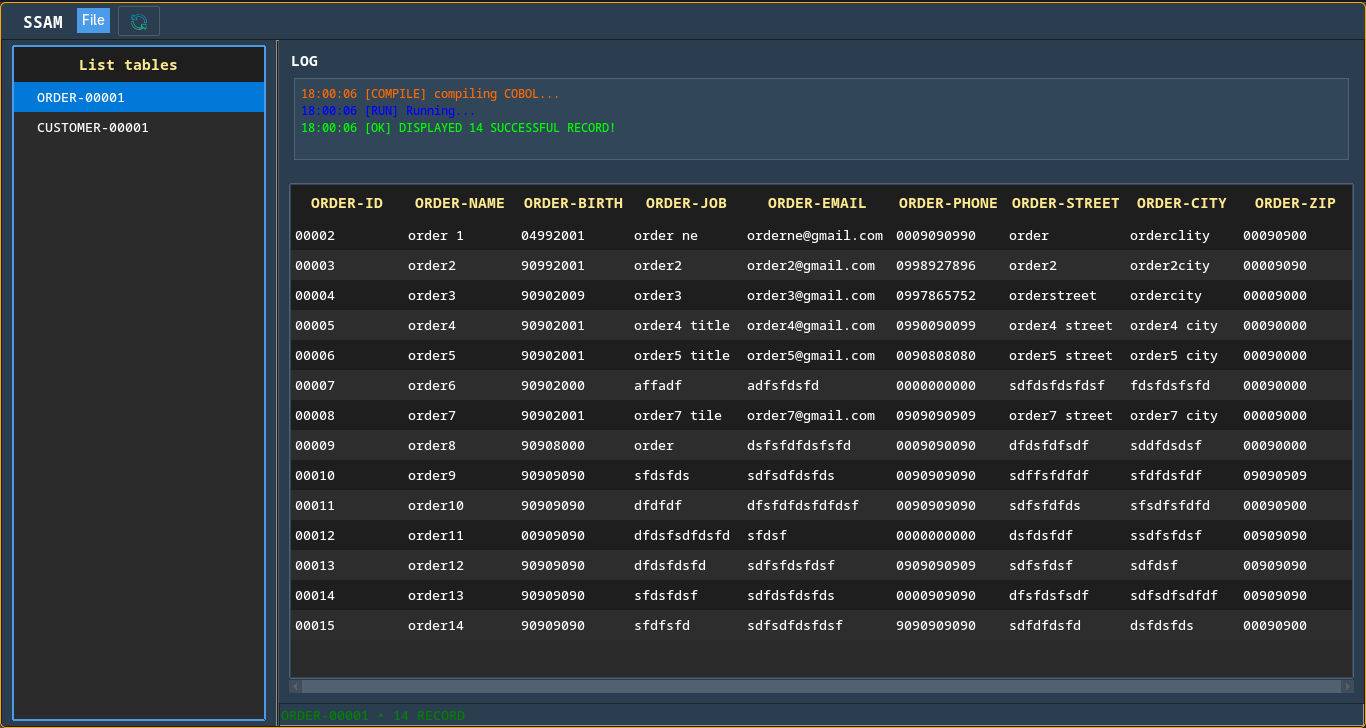
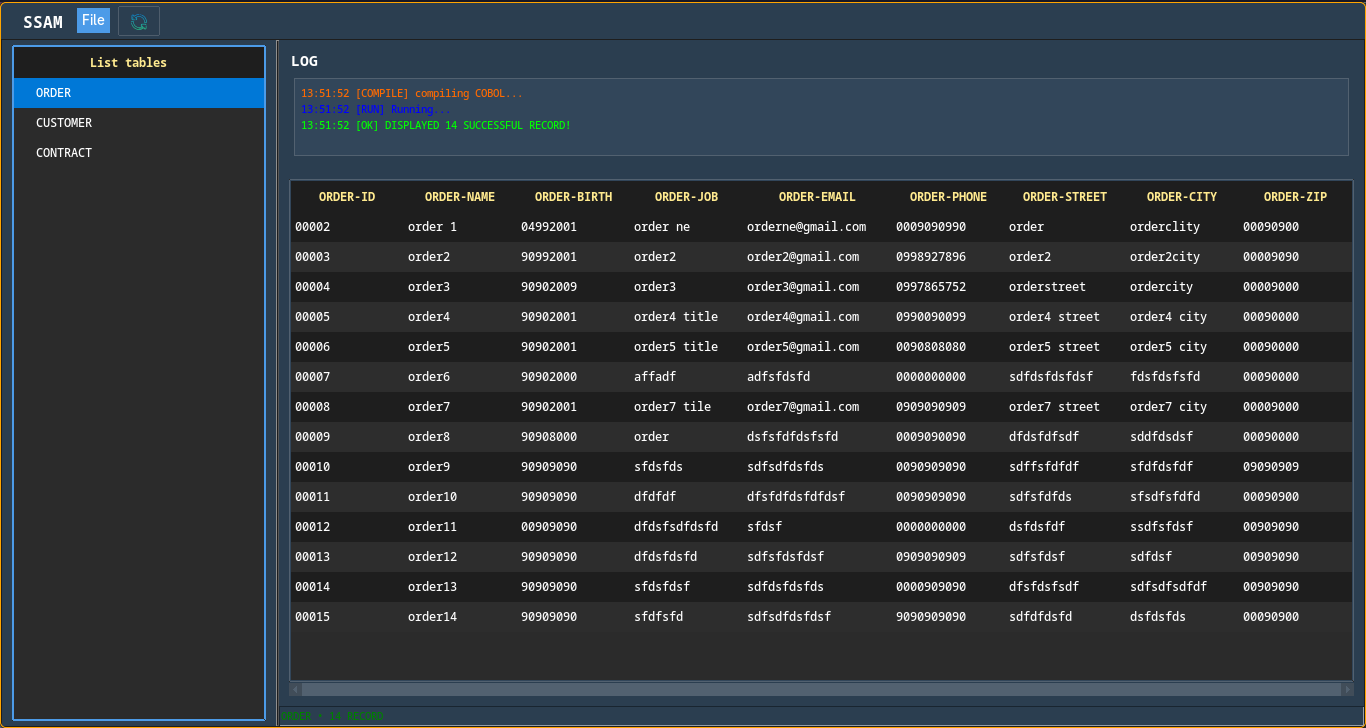
add .md

diff --git a/gui/viewer.py b/gui/viewer.py
@@ -97,7 +97,7 @@ class CobolProjectViewer():
         self.right_frame = right_frame
 
         self.lbl_status = tk.Label(right_frame, text="Ready", anchor="w", relief=tk.SUNKEN,
-                                   bg="#1e1e1e", fg="#f4fff9", font=("Consolas", 10))
+                                   bg="#1e1e1e", fg="#f4fff9", font=("Consolas", 8))
         self.lbl_status.pack(fill=tk.X, side=tk.BOTTOM)
 
         # Log box
@@ -105,7 +105,7 @@ class CobolProjectViewer():
         log_frame.pack(fill=tk.X, pady=8, padx=10)
         tk.Label(log_frame, text="LOG", fg="#00ff00", bg="#0a0a0a",
                  font=("Consolas", 11, "bold")).pack(anchor="w")
-        self.data_text = tk.Text(log_frame, height=4, font=("Consolas", 9), bg="#0f0f0f", fg="#ffffff",
+        self.data_text = tk.Text(log_frame, height=4, font=("Consolas", 8), bg="#0f0f0f", fg="#ffffff",
                                  insertbackground="white")
         self.data_text.pack(fill=tk.X, padx=5, pady=5)
         self.setup_data_table()
@@ -165,13 +165,13 @@ class CobolProjectViewer():
                         foreground="white",
                         rowheight=30,
                         fieldbackground="#2b2b2b",
-                        font=("Consolas", 10),
+                        font=("Consolas", 9),
                         borderwidth=1)
 
         style.configure("Treeview.Heading",
                         background="#1e1e1e",
                         foreground="#ffea8f",
-                        font=("Consolas", 11, "bold"))
+                        font=("Consolas", 9, "bold"))
 
         style.map('Treeview', background=[('selected', '#0078d7')])
 
